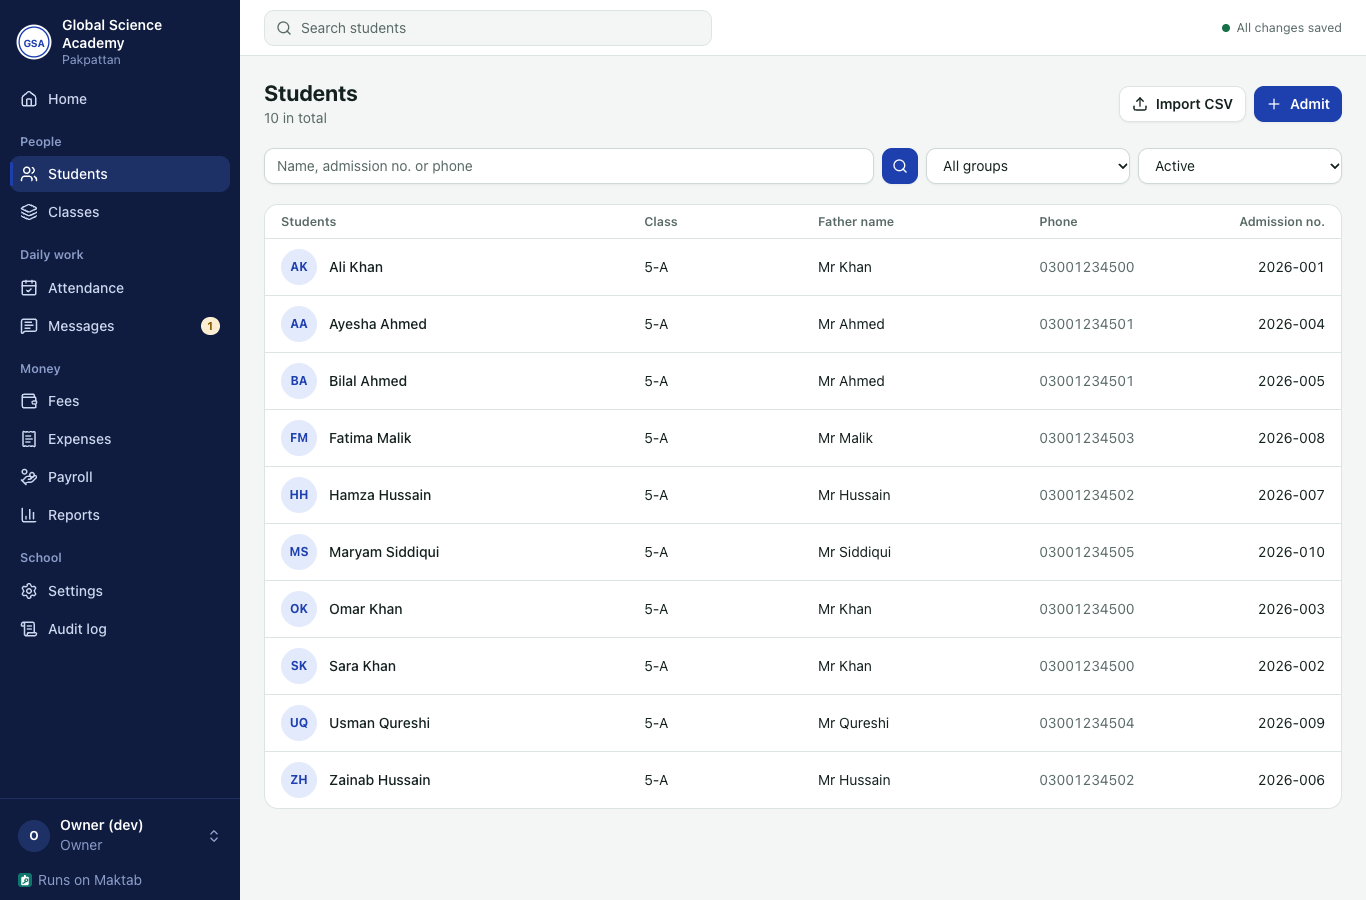
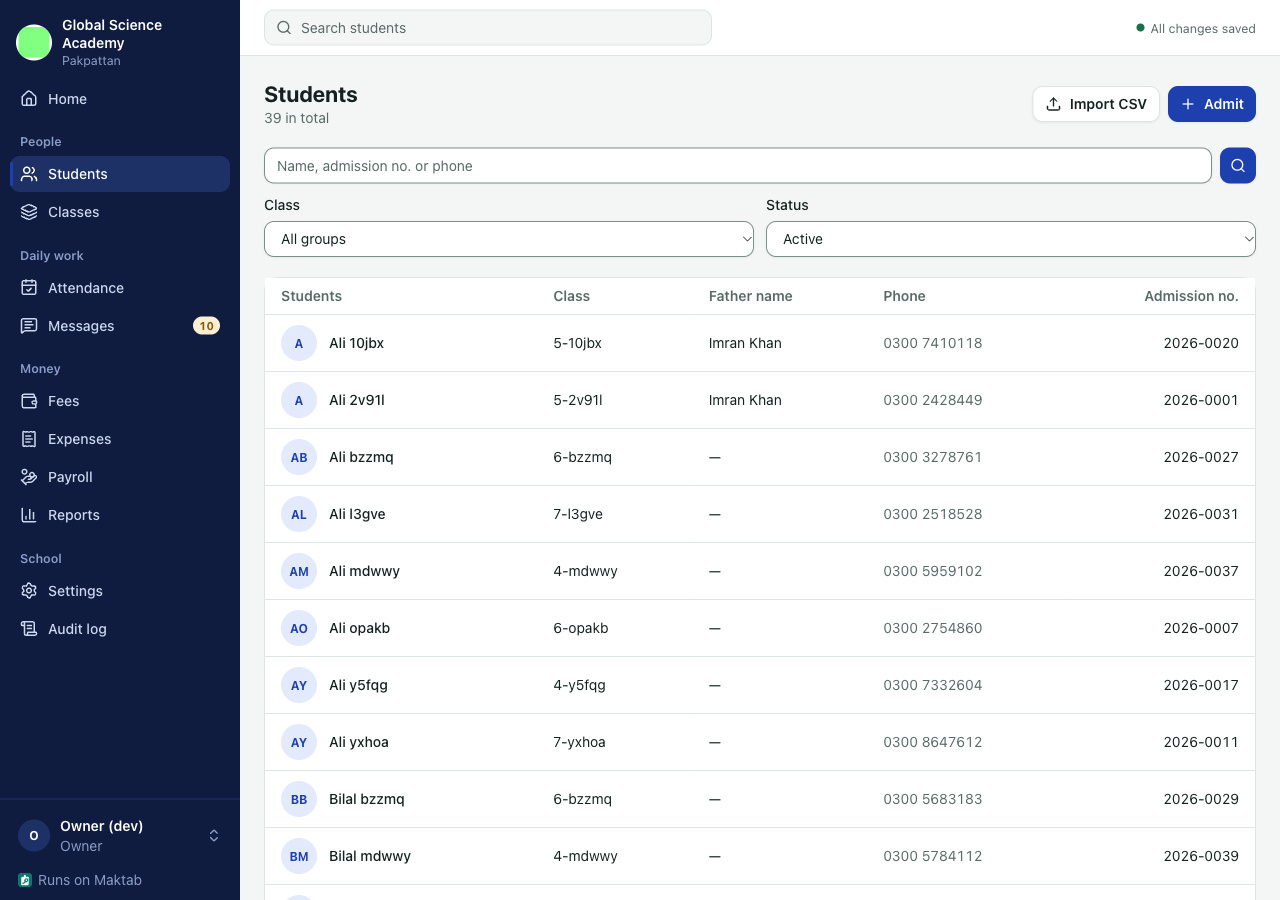
docs: M7b part 1 deviations, migration 0024 and WAF identity routes; setup screenshots (ur, dark)
- PLAN decision log: teacher bottom bar, solid register marks, icon tile deferred to §6.5, teacher
  "Dues"/"My payslips" by design.
- deploy.md / deploy-log.md / pilot-checklist.md: migration 0024 columns, /api/identity* and
  /api/p/badge under the WAF parent rule, dashboard/month `previous`.
- SCREENSHOTS.md: M7b part 1 captures, migration note, payslip print proof (1 A5 page, en + ur).
- docs/design/m7b-1: setup steps 1-5 + Done/no_groups in Urdu dark; Students/Expenses/Settings on
  the shared parts.

Claude-Session: https://claude.ai/code/session_01V6FDeEpgCjdNnaQ9fAPwE3

diff --git a/docs/deploy.md b/docs/deploy.md
@@ -9,6 +9,8 @@ Production deploys are a human decision (PLAN §15: ask first). This is the orde
   no edited migration).
 - Take a backup you can restore (docs/restore.md §B). Migrations are forward-only; the way back is
   Time Travel or the backup, never a down-migration.
+- Migration 0024 (M7b: `school.short_name`, `city`, `brand_color`) only adds nullable columns; no
+  rebuild, no trigger change (docs/deploy-log.md, M7b part 1).
 - Never deploy during school hours: a migration that rebuilds a table (0004, 0008, 0010) holds the
   database for its duration.
 
@@ -104,7 +106,7 @@ Match paths precisely, never with a bare `starts_with(path, "/p")` (that would a
 
 | # | Rule name | If incoming requests match (expression) | Characteristics | Rate | Action | Duration |
 |---|---|---|---|---|---|---|
-| 1 | maktab parent page | `(http.host eq "maktab.conceptlix.com" and ((http.request.uri.path eq "/p") or starts_with(http.request.uri.path, "/p/") or (http.request.uri.path eq "/api/p") or starts_with(http.request.uri.path, "/api/p/")))` | IP | 60 requests / 1 minute | Block (429) | 1 minute |
+| 1 | maktab parent page | `(http.host eq "maktab.conceptlix.com" and ((http.request.uri.path eq "/p") or starts_with(http.request.uri.path, "/p/") or (http.request.uri.path eq "/api/p") or starts_with(http.request.uri.path, "/api/p/") or (http.request.uri.path eq "/api/identity") or starts_with(http.request.uri.path, "/api/identity/")))` | IP | 60 requests / 1 minute | Block (429) | 1 minute |
 | 2 | maktab sign-in | `(http.host eq "maktab.conceptlix.com" and ((http.request.uri.path eq "/api/auth") or starts_with(http.request.uri.path, "/api/auth/")))` | IP | 20 requests / 1 minute | Block (429) | 1 minute |
 | 3 | maktab API writes | `(http.host eq "maktab.conceptlix.com" and http.request.method eq "POST" and starts_with(http.request.uri.path, "/api/"))` | IP | 300 requests / 1 minute | Block (429) | 1 minute |
 
@@ -115,7 +117,7 @@ sign-in rate and record it in docs/deploy-log.md:
 
 | Rule name | Expression | Characteristics | Rate | Action | Duration |
 |---|---|---|---|---|---|
-| maktab public surfaces | `(http.host eq "maktab.conceptlix.com" and ((http.request.uri.path eq "/p") or starts_with(http.request.uri.path, "/p/") or (http.request.uri.path eq "/api/p") or starts_with(http.request.uri.path, "/api/p/") or (http.request.uri.path eq "/api/auth") or starts_with(http.request.uri.path, "/api/auth/")))` | IP | 10 requests / 10 seconds | Block (429) | 10 seconds |
+| maktab public surfaces | `(http.host eq "maktab.conceptlix.com" and ((http.request.uri.path eq "/p") or starts_with(http.request.uri.path, "/p/") or (http.request.uri.path eq "/api/p") or starts_with(http.request.uri.path, "/api/p/") or (http.request.uri.path eq "/api/identity") or starts_with(http.request.uri.path, "/api/identity/") or (http.request.uri.path eq "/api/auth") or starts_with(http.request.uri.path, "/api/auth/")))` | IP | 10 requests / 10 seconds | Block (429) | 10 seconds |
 
 A parent page load is about 3–4 requests (shell, `/api/p`, the logo, a gate attempt) and a sign-in
 is 2–3, so 10 per 10 s per IP leaves room for a whole office on one NAT IP; the Worker's own per-IP
@@ -124,7 +126,11 @@ Rule 3 is then not available; the D1 budget and the Worker limiter are what stan
 `POST /api/*` until the zone moves to Pro.
 
 Notes: rule 1 matches `/p` and `/p#…` (the fragment never reaches the server) and every `/api/p/…`
-call. Rule 3 also covers `POST /api/backup/runs` (token-only; no Turnstile needed there). A school
+call, including the public school badge `GET /api/p/badge` and logo `GET /api/p/logo` (M7b). It
+also covers the sign-in page's public identity routes added in M7b, `GET /api/identity` (name,
+city, short name, colour, office phone, logo version) and `GET /api/identity/logo`: no session, no
+personal data, cacheable, but unauthenticated, so they sit under the same per-IP limit. (The
+Worker's own in-isolate limiter does not cover `/api/identity*`; the WAF rule is the limit there.) Rule 3 also covers `POST /api/backup/runs` (token-only; no Turnstile needed there). A school
 behind one NAT IP (all office phones on one Wi-Fi) stays far below 300 POSTs a minute; if a busy
 counter ever hits it, raise rule 3, never remove it. Check: `for i in $(seq 70); do curl -s -o
 /dev/null -w '%{http_code}\n' https://maktab.conceptlix.com/api/p; done | sort | uniq -c` shows 429s,

diff --git a/docs/PLAN.md b/docs/PLAN.md
@@ -38,6 +38,7 @@ Non-goals for now: multi-school SaaS, online payment gateways, LMS/content deliv
 | 2026-10-10 | Build starts: local git repo, AGPL-3.0; GitHub publish deferred until the user says push. Milestone 0 = scaffold (schema + triggers, auth + permission matrix + tests, bilingual PWA shell, backup workflow). Opus writes, Sonnet verifies, Fable reviews | User delegated the decision |
 | 2026-10-10 | **M0 closed** at `8a530c7` after two blind reviews and three clean-clone verifications: 164 tests, 58 triggers, 4 views. Added by review: payer-credit ≥ 0 invariant, allocation sign/release rule per (receipt, charge), reversal shape + single write path `reverseReceipt`, close-only cash sessions with generated variance, frozen payslip lines + salary cap, integer-money CHECKs, fee→fine→waiver two-level tree, `OWNER_EMAIL` bootstrap, matrix rows `attendance.correct` / `expense.void` / `audit.read`, forward-only custom-SQL migrations with manifest, `ledger_consistency` view (nightly alarm in M6). This file (`docs/PLAN.md`) is now canonical; the design-folder copy is a pointer | §15 loop |
 | 2026-10-13 | **UI/UX polish adopted as M7b** from `docs/ui-enhancement-plan.md` + `docs/design/ui-mock.html`: "calm ledger" direction, school-in-front branding (badge, name, curated accent colour; "Runs on Maktab" line), grouped navigation + phone bottom bar, five-step setup incl. Fees, dark mode, generated badge for schools without a logo. Decisions: density 36 px on fine pointers / 44 px on touch (rule amended; verifiers emulate touch); system fonts for Latin; Fees hub = Counter/Defaulters/Billing/Cash tabs, Concessions/Sponsors/Fee register/Collection under "More" + Reports; per-school installed icon/name after the pilot; school picks its colour in setup (GSA placeholder blue). Additions owed by M7b: badge on parent page + printed receipts, teacher/accountant home variants, Urdu mirroring of the new shell, empty/loading/offline states, "Needs attention" fed by M6 alarms, install prompt, contrast/focus checks. Runs after M7a, before the pilot gate. Pilot school: **Global Science Academy, Pakpattan (GSA)** | Product-owner decision (Fable), user delegated |
+| 2026-10-13 | M7b-1 deviations: teacher bottom bar = Home/Attendance/Messages (not My groups); register marks stay solid-fill for sunlight readability; per-school phone icon preview tile removed until §6.5 ships. Also: the teacher menu keeps "Dues" (their groups' dues summary) and "My payslips" (their own slip) by design — "teacher home shows no money" means no amounts of other people or of the school, not no money screens | M7b part 1 review and browser verify |
 
 ## 3. Who uses it
 

diff --git a/docs/SCREENSHOTS.md b/docs/SCREENSHOTS.md
@@ -13,6 +13,24 @@ Placeholder: no images yet. Planned screens (English and Urdu/RTL, phone and des
 - Reports (collections, dues, attendance)
 - Language toggle (English / اردو)
 
+## M7b part 1 (captured): `docs/design/m7b-1/`
+
+Captured from a local `wrangler dev` with smoke data (demo names only), GSA identity (badge `GSA`,
+Pakpattan) and Al-Noor (uploaded logo). They need migration **0024_m7b_school_identity**
+(`school.short_name`, `city`, `brand_color`; nullable columns, no rebuild) applied to the local D1
+(`npm run db:migrate:local`) before the identity fields show. Name pattern:
+`<school>-<screen>-<phone|desktop>-<en|ur>-<light|dark>.png`.
+
+- Sign-in, home (owner, teacher), More sheet, search, A5 receipt (earlier captures).
+- Setup in Urdu, dark: `gsa-setup-1-school`, `-2-classes` (groups part), `-3-fees`, `-4-staff`,
+  `-5-done`, and `-5-done-no-groups` (the `no_groups` guard: "make at least one group first").
+- Shared parts: `gsa-students-*` (DataTable + FilterBar; phone cards with the Filters sheet),
+  `gsa-expenses-*` (DataTable with the bill action in the row and Void in the RowMenu),
+  `gsa-settings-tabs-*` (Tabs).
+- Payslip print proof (not an image): `node apps/web/scripts/print-pages.mjs
+  "<origin>/payslips/<id>/print?lang=en|ur" --expect 1 --wait-for '[data-lang]' --cookie <dev session>`
+  gives `pages=1 sizes=420×595` (A5) in both languages.
+
 ## To capture (onboarding guide)
 
 Referenced from `docs/onboarding.md` by id. None captured yet. Use demo data only (seed), never a

diff --git a/docs/deploy-log.md b/docs/deploy-log.md
@@ -154,3 +154,20 @@ Commits `b33048d`…`0a30f93` (pushed to main). No migration in this milestone. 
 2. Turnstile widget → `TURNSTILE_SITE_KEY` in wrangler.toml + `TURNSTILE_SECRET` secret, deploy (§8).
 3. The M6 items above (API token → first nightly run → restore drill, R2 lifecycle rule, key escrow,
    B2), now tracked in docs/pilot-checklist.md.
+
+# M7b (UI/UX polish), part 1: NOT deployed yet (branch `m7b-ui`)
+
+Recorded ahead of the deploy so it is not missed. Migration **0024_m7b_school_identity** adds three
+nullable columns to `school`: `short_name`, `city`, `brand_color` (plain `ALTER TABLE … ADD COLUMN`,
+no table rebuild, no CHECK, no trigger change; `db:verify` still expects 97 triggers, 8 views). Safe
+during school hours. When the branch is merged and deployed, from apps/api:
+
+    npx wrangler d1 migrations list DB --remote --env production   # expect 0024_m7b_school_identity
+    npx wrangler d1 migrations apply DB --remote --env production
+    npm run db:verify -- --remote --env production                 # repo root
+    npm run build && npx wrangler deploy --env production
+
+Then: set the short name, city and colour in Settings → School (GSA: `GSA`, Pakpattan, blue), and add
+`/api/identity*` to the WAF parent rule (docs/deploy.md §7) if the rule predates M7b.
+No other schema change: `GET /api/dashboard/month` gains a `previous` object (last month's income,
+spending, net) for the home strip's comparison, computed from the same five report queries.

diff --git a/docs/pilot-checklist.md b/docs/pilot-checklist.md
@@ -44,7 +44,8 @@ docs/deploy.md, docs/backup.md, docs/restore.md, docs/android-checks.md.
 ## 2. Security
 
 - [ ] **Cloudflare WAF rate-limiting rules** (docs/deploy.md "Rate limiting"):
-  `/p*` and `/api/p*` 60 requests/min per IP; `/api/auth/*` 20/min per IP; POST `/api/*` 300/min per
+  `/p*`, `/api/p*` (incl. `/api/p/badge`, `/api/p/logo`) and `/api/identity*` (M7b sign-in page
+  identity + logo) 60 requests/min per IP; `/api/auth/*` 20/min per IP; POST `/api/*` 300/min per
   IP. Verify: the three rules are active in the zone's Security → WAF → Rate limiting rules; a quick
   burst of 70 requests to `/api/p` from one IP gets blocked. — Maintainer
 - [ ] **Turnstile** (docs/deploy.md "Turnstile"): widget created for `maktab.conceptlix.com`; site key
